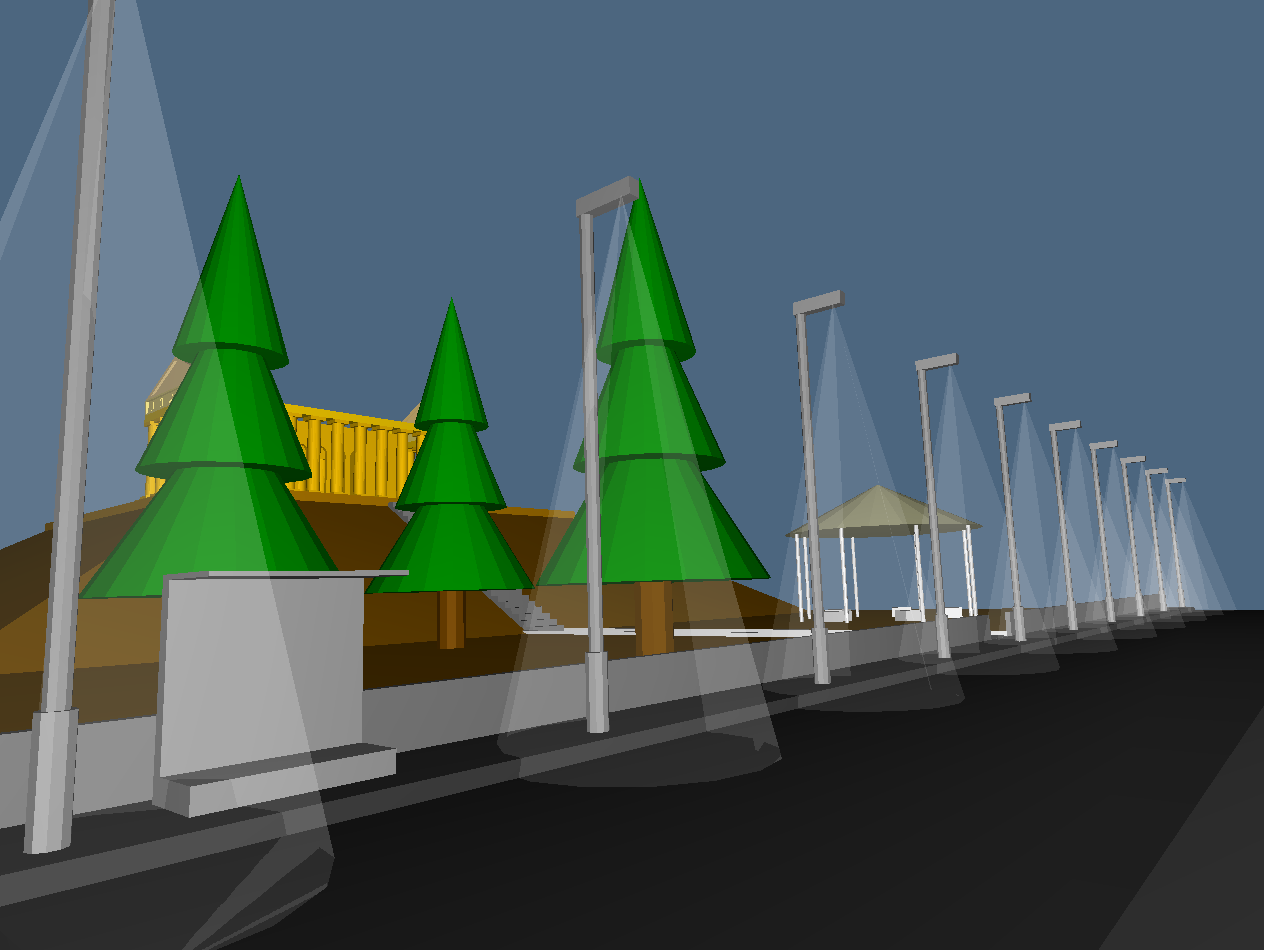
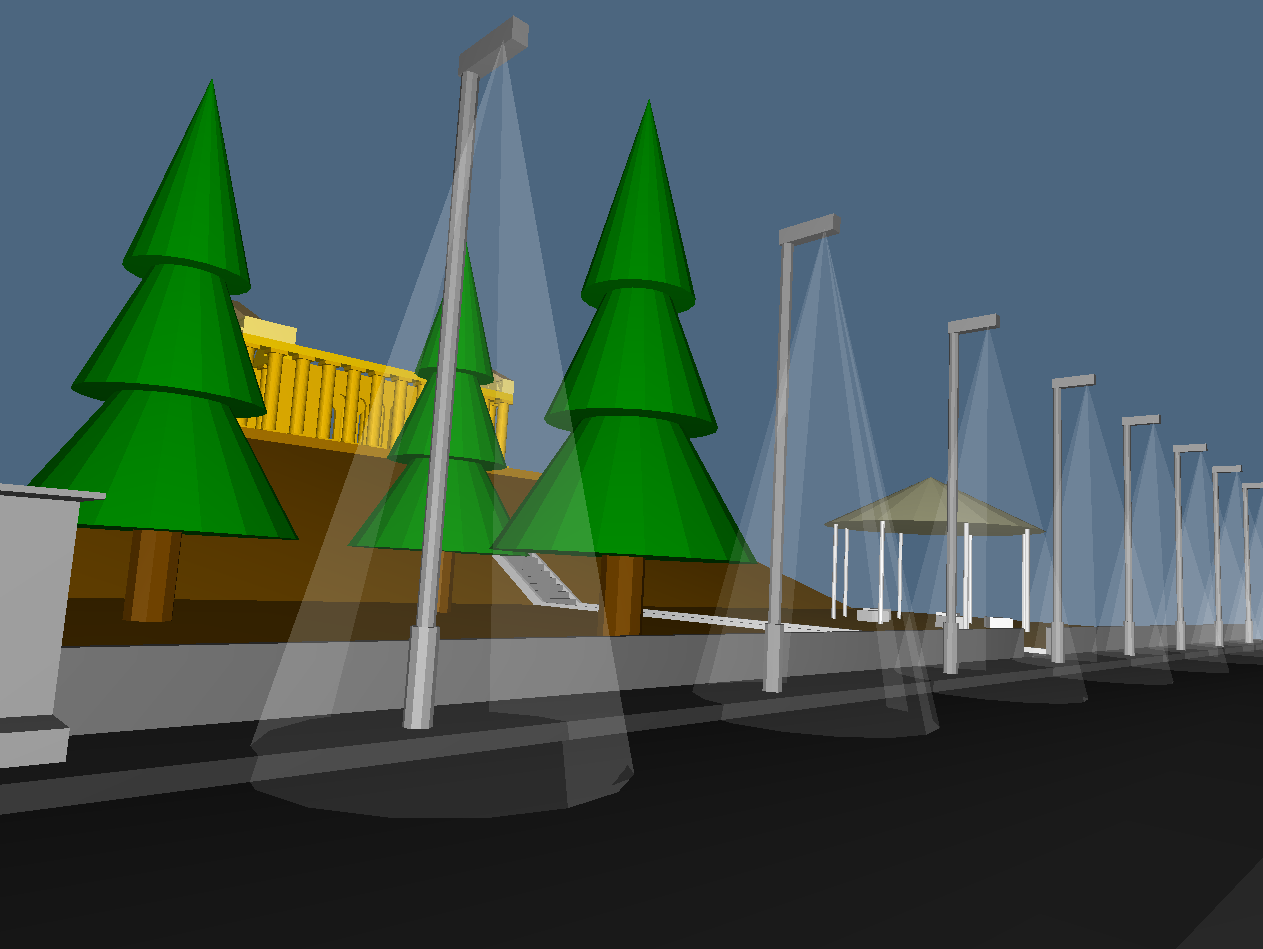
new images

diff --git a/2014-04-11/python/exercise4.py b/2014-04-11/python/exercise4.py
@@ -3,7 +3,7 @@ from larcc import *
 from myfont import *
 from random import random
 
-#Homework 1 - exercise3
+#Homework 1 - exercise4
 #Author: Davide Violante
 
 #function for custom colors with 0:255 numbers
@@ -322,7 +322,15 @@ pathbords = COLOR(GREY3)(STRUCT([pathbord1,pathbord2]))
 stairs1 = STRUCT([T([2])([1*i])(CUBOID([4,1,i*0.6]))for i in range(1,25)])
 stairs1 = COLOR(GREY2)(T([1,2,3])([20,40,1])(stairs1))
 
-pathbkg = STRUCT([hill0,bkg3d,smallpath,stairs1,pathbords])
+ptsstairs = [[0,0,0],[0,25,0],[0,25,15],
+			 [-0.3,0,0],[-0.3,25,0],[-0.3,25,15]]
+stairborders1 = JOIN(AA(MK)(ptsstairs))
+stairborders1 = T([1,2,3])([20,40,1])(stairborders1)
+stairborders2 = T(1)(4.3)(stairborders1)
+
+stairborders = COLOR(GREY3)(STRUCT([stairborders1,stairborders2]))
+
+pathbkg = STRUCT([hill0,bkg3d,smallpath,stairs1,pathbords,stairborders])
 
 #hill details: trees
 BROWN1 = rgb([110, 65, 0])
